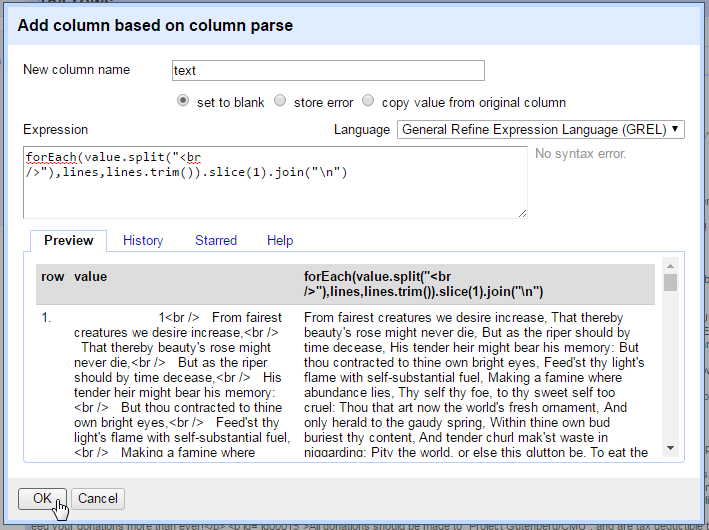
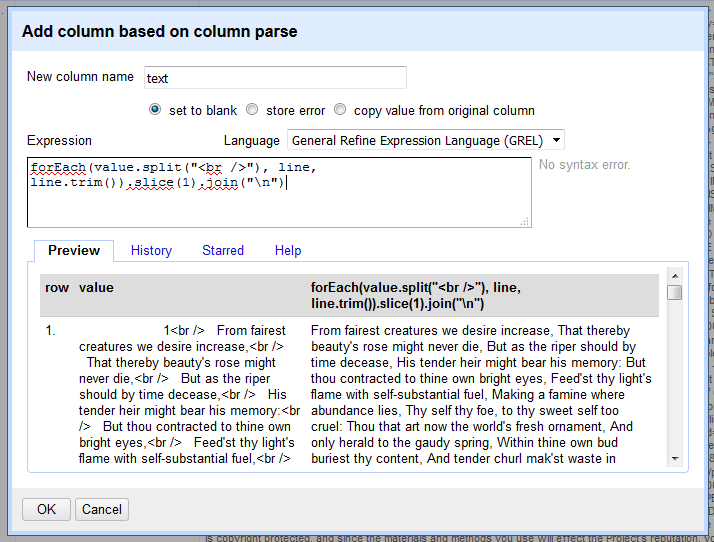
openrefine: clarify sonnets forEach re @peggygriesinger

Changed region(s): [[0.0, 0.0, 1.0, 1.0], [0.7137, 0.3925, 0.7447, 0.4226]]

diff --git a/lessons/fetch-and-parse-data-with-openrefine.md b/lessons/fetch-and-parse-data-with-openrefine.md
@@ -229,30 +229,32 @@ Create new columns from the *parse* column using these names and expressions:
 
 The next column to create is the full sonnet text which contains multiple lines.
 However, `trim()` will only clean the beginning and end of the cell, leaving unnecessary whitespace in the body of the sonnet.
-To trim each line individually use the GREL `forEach()` control, a handy loop that iterates over an array.
+To trim each line individually use the [GREL control](https://github.com/OpenRefine/OpenRefine/wiki/GREL-Controls) `forEach()`, a handy loop that iterates over an array.
 
-The `forEach()` expression asks for an array, a variable name, and a function applied to the variable.
-Create new column named *text* from the *parse* column, and type `forEach(value.split("<br>"),lines,lines.trim())` in the expression box.
-Look closely at the parameters of this `forEach()`:
+From the *parse* column, create a new column named *text*, and click in the *Expression* box.
+A `forEach()` statement asks for an array, a variable name, and an expression applied to the variable. 
+Following the form `forEach(array, variable, expression)`, construct a loop using these parameters:
 
-- Array `value.split("<br>")`, creates an array from the string value in each cell.
-- Variable `lines`, each item in the array is then represented as the variable (it could be anything, `v` is often used).
-- Function `lines.trim()`, each item is then evaluated separately with the specified expression. In this case, `trim()` cleans the white space from each sonnet line in the array.
+- array `value.split("<br />")`, creates an array from the lines of the sonnet in each cell.
+- variable `line`, each item in the array is then represented as the variable (it could be anything, `v` is often used).
+- expression `line.trim()`, each item is then evaluated separately with the specified expression. In this case, `trim()` cleans the white space from each sonnet line in the array.
 
-The result of each separate function is returned as a new array.
-Thus, additional array functions can be applied to the end of the `forEach()`, such as slice and join.
-The final expression to extract and clean the full sonnet text is:
+At this point, the statement should look like `forEach(value.split("<br />"), line, line.trim())` in the *Expression* box.
+Notice that the *Preview* now shows an array where the first element is the sonnet number.
+Since the results of the `forEach()` are returned as a new array, additional array functions can be applied, such as slice and join.
+Add `.slice(1)` to remove the sonnet number, and `.join("\n")` to concatenate the lines in to a string value.
+Thus, the final expression to extract and clean the full sonnet text is:
 
 ```
-forEach(value.split("<br>"),lines,lines.trim()).slice(1).join("\n")
+forEach(value.split("<br />"), line, line.trim()).slice(1).join("\n")
 ```
 
 {% include figure.html caption="GREL forEach expression" filename="refine-foreach.png" %}
 
-Add another new column from *parse* named *last* to represent the final couplet lines using:
+Following the same technique, add another new column from *parse* named *last* to represent the final couplet lines using:
 
 ```
-forEach(value.split("<br>"),lines,lines.trim()).slice(-3).join("\n")
+forEach(value.split("<br />"), line, line.trim()).slice(-3).join("\n")
 ```
 
 Finally, numeric columns can be added using the `length()` function.
